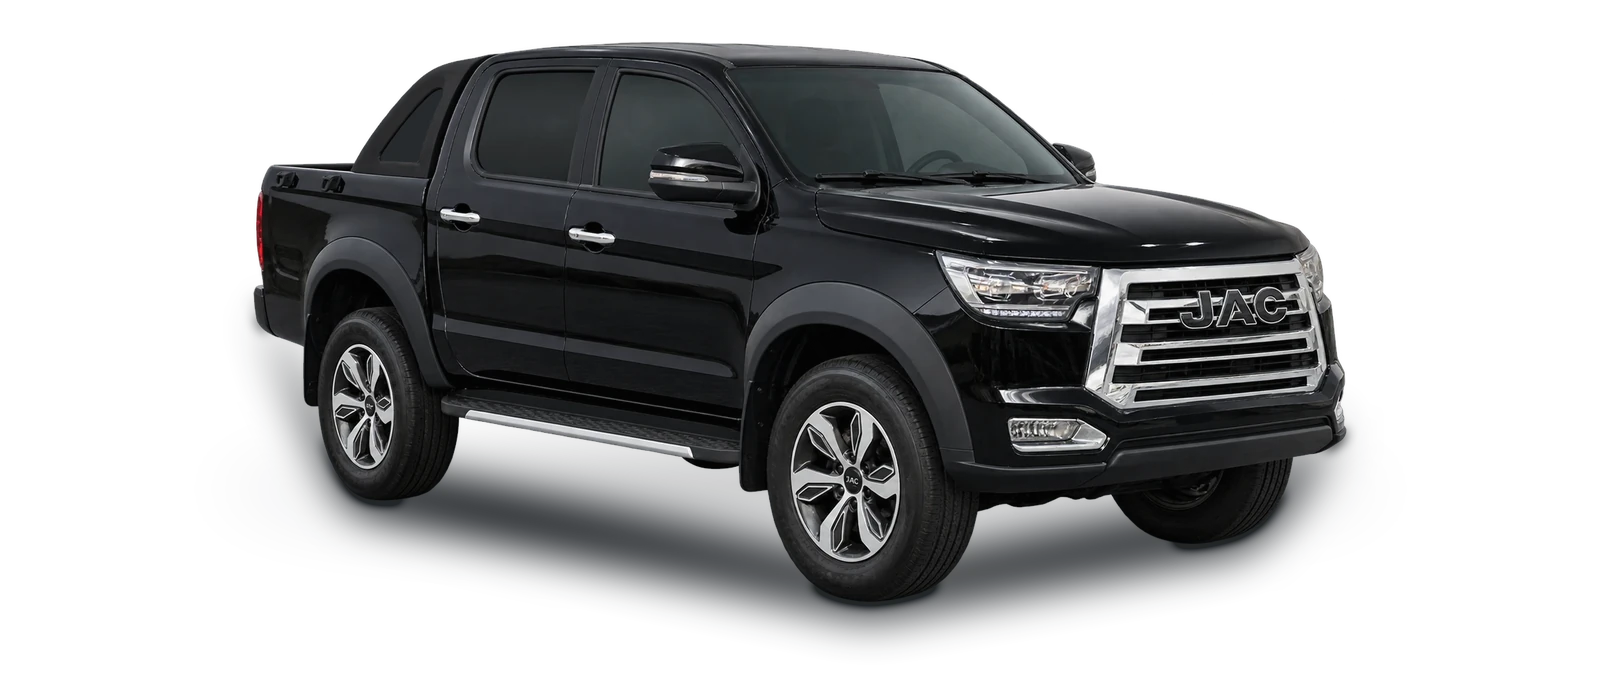
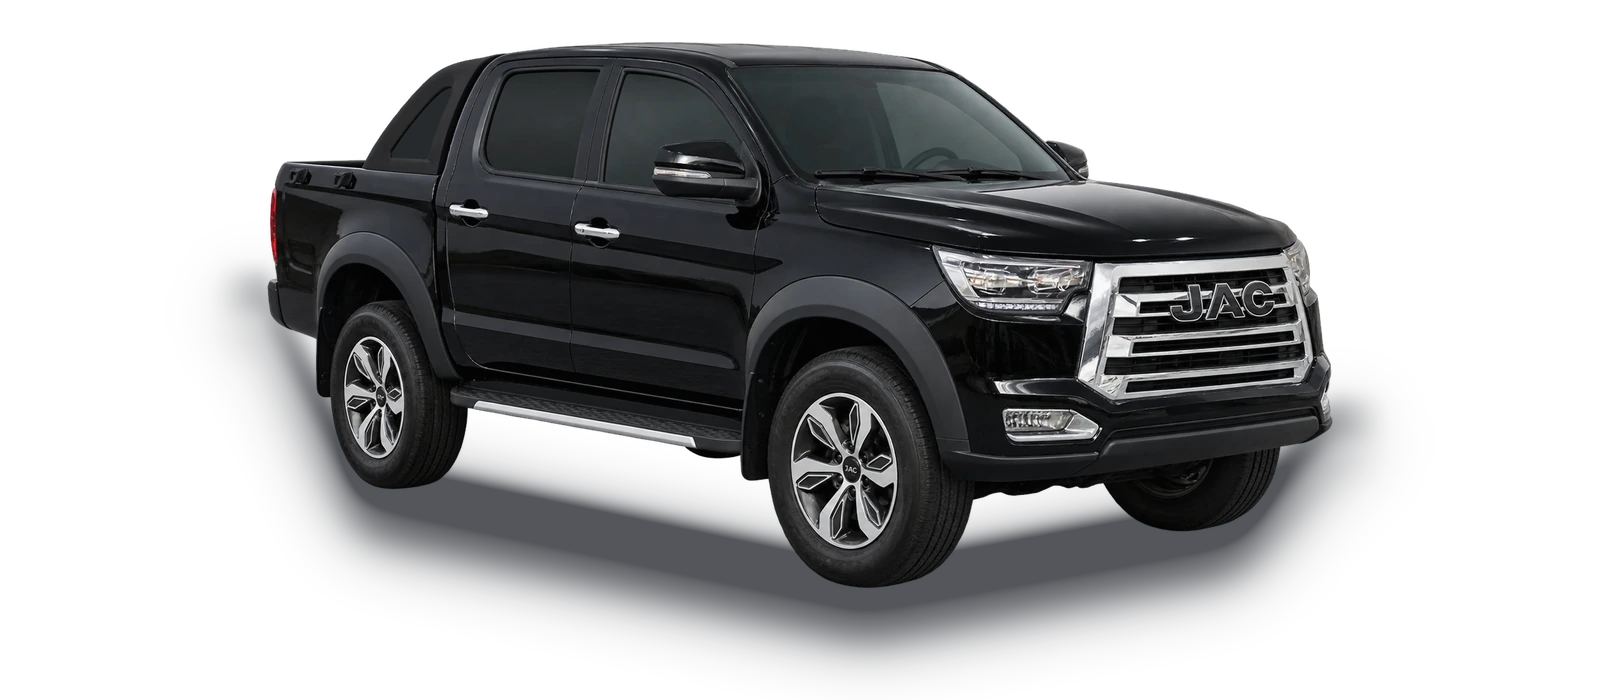
Тени как у студийных фото (T8, M4, M3), фикс цвета JS8, мобильная адаптация блока цвета

diff --git a/assets/css/style.css b/assets/css/style.css
@@ -284,6 +284,15 @@ body:not(.is-loading) .preloader { opacity: 0; visibility: hidden; }
 .stage__car img.is-entering { opacity: 0; transform: translateX(10%) scale(.97); filter: blur(4px); }
 .stage__label { position: absolute; left: 16px; top: 14px; font-size: 12px; font-weight: 700; letter-spacing: .14em; text-transform: uppercase; color: #7A8A92; }
 .stage__label b { display: block; margin-top: 2px; font-size: 16px; letter-spacing: .02em; text-transform: none; color: #1C1C1B; }
+/* мобильная версия: машина крупнее (в картинках есть поля под тень), подсказка 360° не залезает на кузов */
+@media (max-width: 639px) {
+  .stage { padding: 58px 0 16px; }
+  .stage__car { aspect-ratio: 16 / 7.6; }
+  .stage__car img { width: 118%; max-width: none; max-height: none; height: auto; }
+  .stage--spin .stage__car { margin-bottom: 30px; }
+  .spin__hint { bottom: -34px; }
+  .stage--spin .stage__floor { bottom: calc(20% + 30px); }
+}
 .swatches { position: relative; display: flex; flex-wrap: wrap; justify-content: center; gap: 10px; margin-top: 10px; }
 .swatch { width: 38px; height: 38px; border-radius: 50%; padding: 4px; box-shadow: inset 0 0 0 1.5px rgba(0,0,0,.12); transition: box-shadow .3s, transform .3s var(--ease); }
 .swatch i { display: block; width: 100%; height: 100%; border-radius: 50%; background: var(--c); box-shadow: inset 0 0 0 1px rgba(0,0,0,.12), inset 0 -6px 10px rgba(0,0,0,.25), inset 0 4px 8px rgba(255,255,255,.3); }

diff --git a/assets/js/main.js b/assets/js/main.js
@@ -287,7 +287,9 @@
   function spinLoad(sp, idx, cb) {
     var url = sp.model.colors[idx].sprite, img = new Image();
     sp.el.classList.remove('is-ready');
+    sp.want = idx; // последний выбранный цвет: устаревшие загрузки игнорируем
     img.onload = function () {
+      if (sp.want !== idx) return;
       sp.el.style.backgroundImage = 'url("' + url + '")';
       sp.el.style.backgroundSize = (sp.cfg.cols * 100) + '% ' + (sp.cfg.rows * 100) + '%';
       spinFrame(sp, sp.frame); sp.el.classList.add('is-ready'); if (cb) cb();
